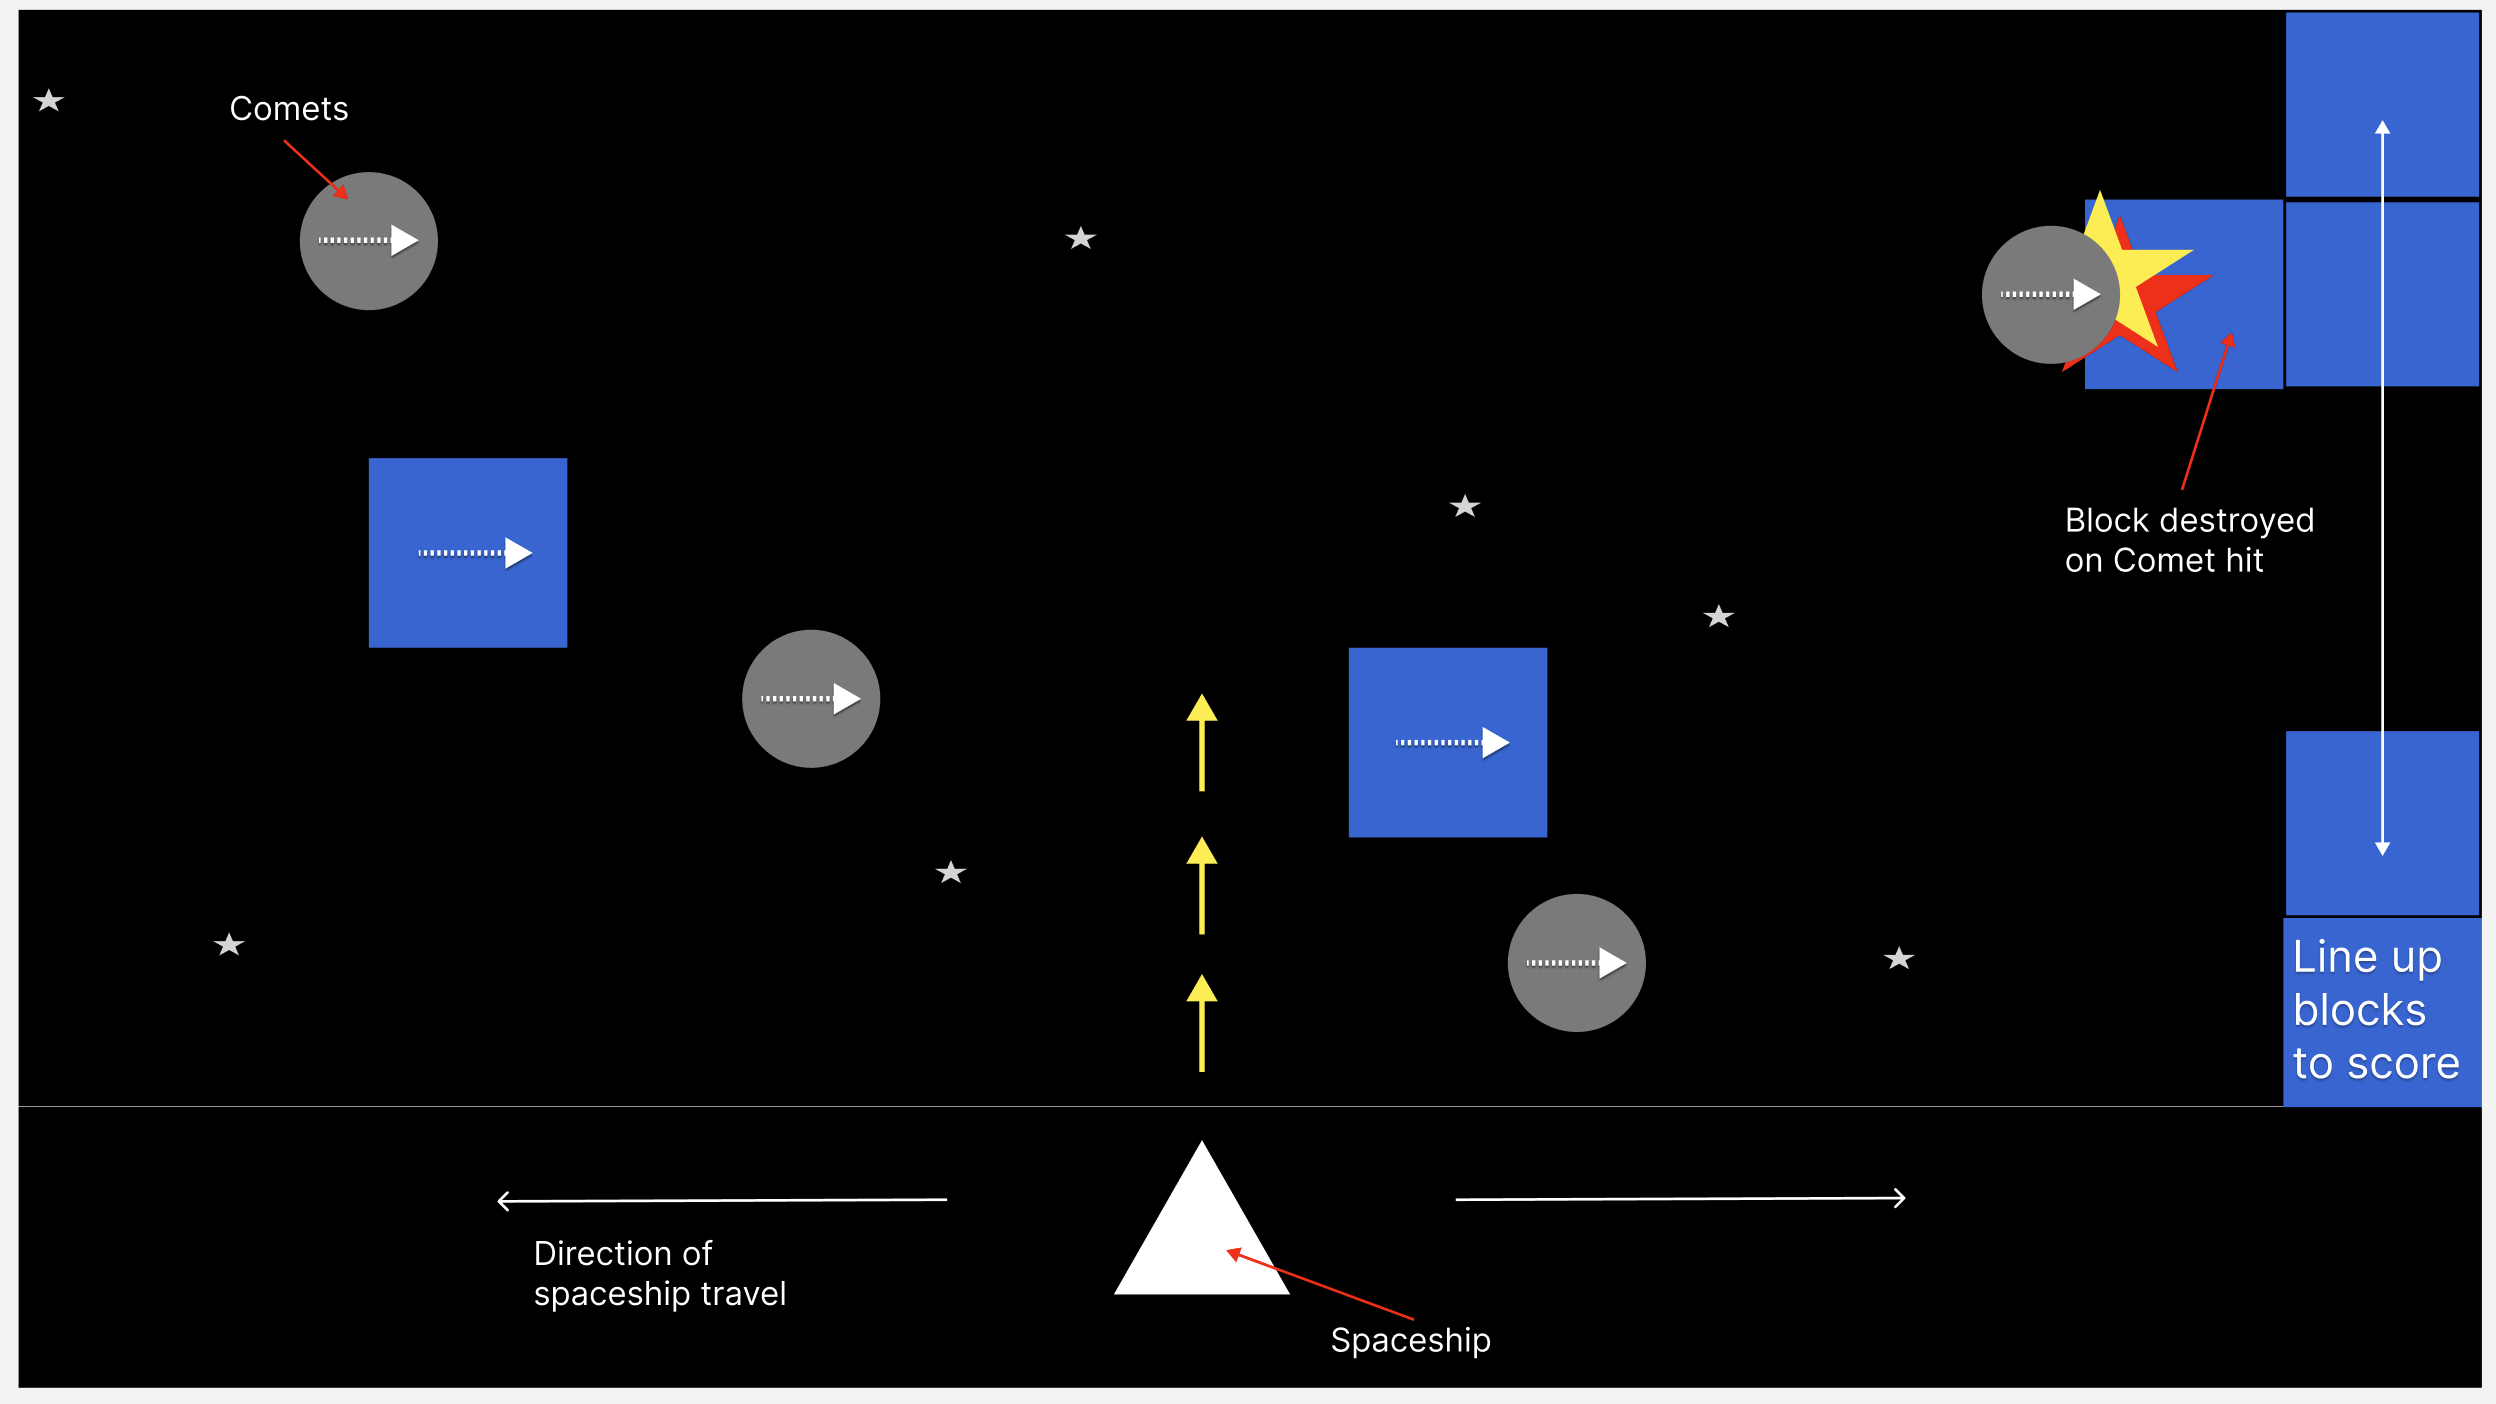
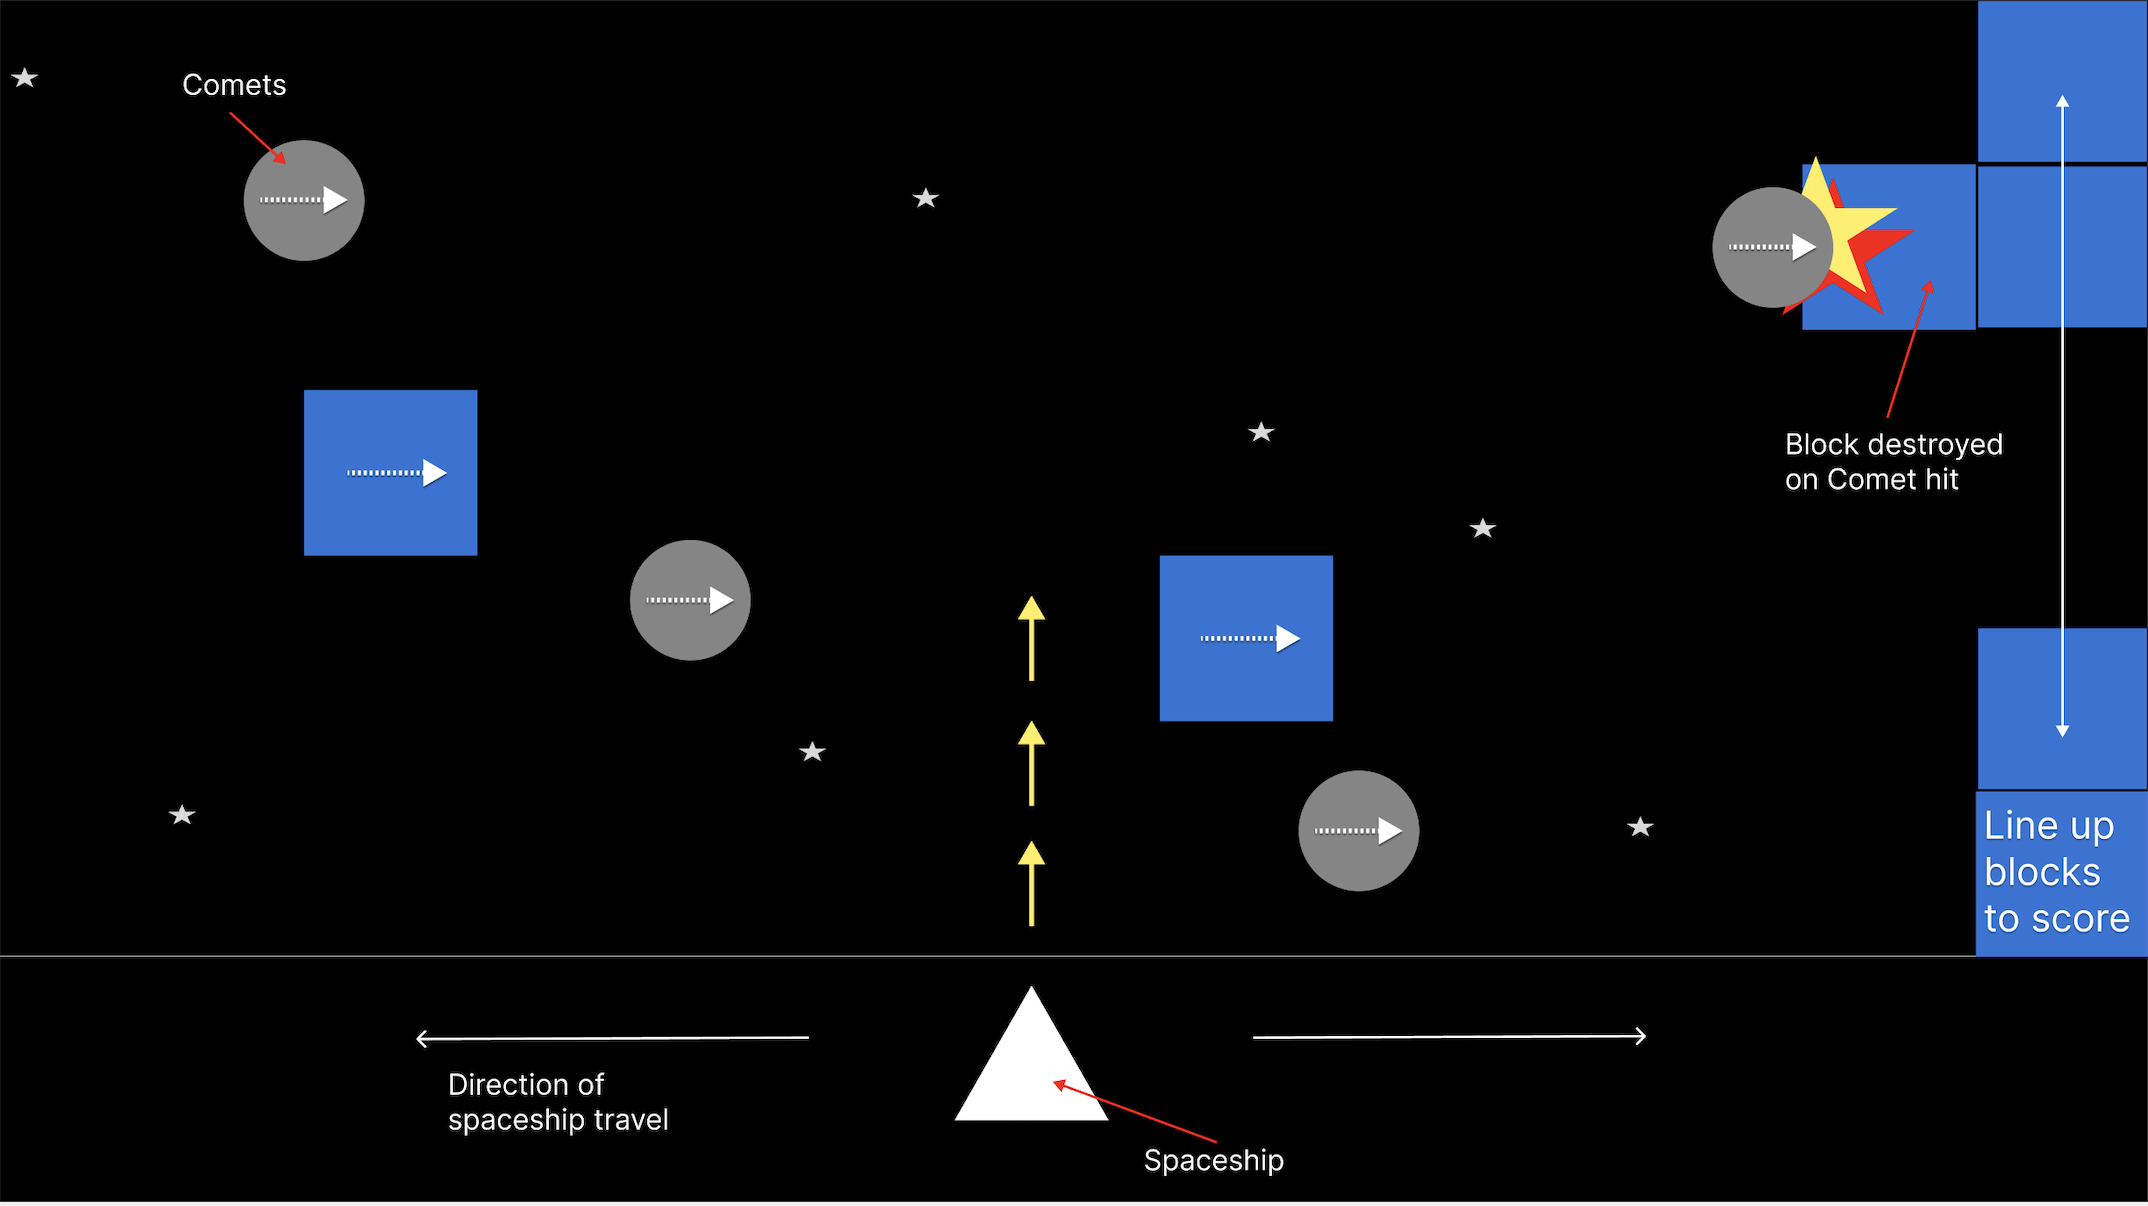
Resized initial concept image and updated initial thoughts/functionality

diff --git a/CSS/styles.css b/CSS/styles.css
@@ -1,0 +1,20 @@
+
+Required functionality:
+
+//Start button to start
+//Pause button to pause game??
+//Spaceship to move left/right on press of arrow keys
+//Spaceship to fire on press of spacebar
+//Lazers to move from bottom to top until comet/block hit or move off screen
+//Blocks to move left to right
+//Comets to love left to right
+
+//Blocks/comets to spawn over height of grid.
+//Blocks/comets to dissapear after hit
+//Blocks to dissapear if complete column on right.
+
+//Timer for length of round??
+//Score counter:
+        +1 when comet hit or blocks lined up
+        -1 when coment hits blocks or blocks accidently shot
+//Name prompt for scoreboard after lose/win??

diff --git a/index.html b/index.html
@@ -1,0 +1,15 @@
+<!DOCTYPE html>
+<html lang="en">
+<head>
+    <meta charset="UTF-8">
+    <meta http-equiv="X-UA-Compatible" content="IE=edge">
+    <meta name="viewport" content="width=device-width, initial-scale=1.0">
+    <link rel="stylesheet" href="styles.css">
+    <title>Document</title>
+</head>
+<body>
+    
+    <script> src="https://code.jquery.com/jquery-3.6.0.min.js" integrity="sha256-/xUj+3OJU5yExlq6GSYGSHk7tPXikynS7ogEvDej/m4=" crossorigin="anonymous"></script>
+    <script src="main.js"></script>
+</body>
+</html>
